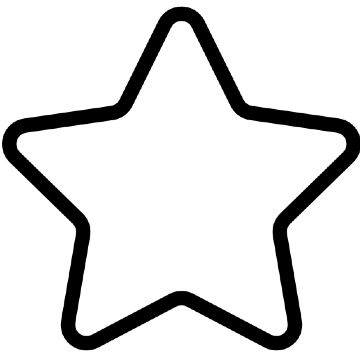
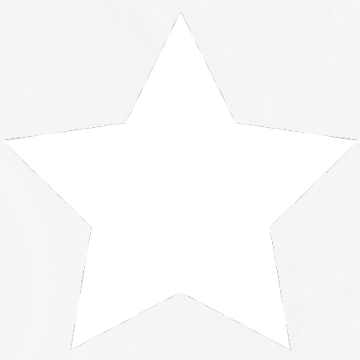
201018 작업 - 훈사
- mypage, review, user 페이지 디자인 수정

Changed region(s): [[0.0, 0.0, 1.0, 0.9778]]

diff --git a/review/css/review.css b/review/css/review.css
@@ -1,3 +1,7 @@
+html {
+  background-color: #F5F5F7;
+}
+
 @font-face {
   font-family: 'paybooc-Bold';
   src: url('https://cdn.jsdelivr.net/gh/projectnoonnu/noonfonts_20-07@1.0/paybooc-Bold.woff') format('woff');
@@ -5,17 +9,17 @@
   font-style: normal;
 }
 /* section */
-section{width: 800px; min-height: 800px;  margin: 50px auto; background-color: white;}
+section{width: 800px; min-height: 800px;  margin: 100px auto; background-color: #F5F5F7;}
 
 /* section 안에 header 제목 부분 */
-.section_header { margin: 50px; background-color: white;}
+.section_header { margin: 50px; background-color: #F5F5F7;}
 .section_header .title_sub{color: black; font-family: 'paybooc-Bold';}
 .section_header .title_main{color: black; font-size: x-large; font-family: 'paybooc-Bold';}
 
 /* 빈공간을 어둡게 채우는 창 */
 .container_review { }
 /* 흰 화면의 dialog 부분 */
-.container_review .content_review{ margin: 0 auto; background-color: white; 
+.container_review .content_review{ margin: 0 auto; background-color: #F5F5F7; 
      padding: 1rem 1.5rem;  width: 700px;  border-radius: 0.5rem; box-shadow: 4px 4px 20px #D1CFCF;} 
 /* 상단 닉네임 및 평점 부분 */
 .container_review .content_header_review{height: 50px; width:95%; position:relative;}
@@ -34,32 +38,33 @@ section{width: 800px; min-height: 800px;  margin: 50px auto; background-color: w
      border-radius: 0.25rem;  background-color: lightgray;  } 
 .container_review .close_btn_review:hover { background-color: darkgray; } 
 /* 영화제목 */
-.container_review .title{ font-family: 'Oswald', sans-serif; color: #216182; margin-top:30px; margin-bottom:50px} 
+.container_review .title{ font-family: 'Oswald', sans-serif; color: #20A2F1; margin-top:30px; margin-bottom:50px} 
 /* 한줄평 및 장문평 제목 */
-.container_review h2{margin-top:20px; font-family: 'Oswald', sans-serif; color: #216182; text-align: center; margin-bottom:20px; font-family: 'paybooc-Bold';}
+.container_review h2{margin-top:20px; font-family: 'Oswald', sans-serif; color: #20A2F1; text-align: center; margin-bottom:20px; font-family: 'paybooc-Bold';}
 
 /* form 태그 */
 .content_review form{width: 100%;margin: 0 auto;}
 
-.content_review form input[type=submit]{width: 30%; height: 30px; margin: 0px auto; margin-top: 10px; display: block; background-color:#679b9b;
-    border: none; border-radius: 10px;}
+.content_review form input[type=submit]{width: 30%; height: 30px; margin: 0px auto; margin-top: 10px; display: block; background-color:rgb(44, 44,44);
+    border: none; border-radius: 10px; color: #F5F5F7;}
 
 /* .content_review h2{text-align: center; margin-bottom:20px; } */
 
 /* 한줄평 */
 .review_short{word-break:break-all; font-family: 'Oswald', sans-serif; font-size: 20px; width:80%; margin:20px auto; 
-    margin-bottom:30px; display:block; border-style: none; text-align: center;}
+    margin-bottom:30px; display:block; border-style: none; text-align: center; background-color: #F5F5F7;}
 
 /* 장문평 */
 .review_long{word-break:break-all; font-family: 'Oswald', sans-serif; font-size: 20px; width:80%; margin:20px auto;
-    margin-bottom:30px;height:200px; overflow-y:auto; display:block; border-style: none; text-align: center;}
+    margin-bottom:30px;height:200px; overflow-y:auto; display:block; border-style: none; text-align: center; background-color: #F5F5F7;}
 #long_view_box{display:block;}
 
 /* 별점 */
+.startRadio_box { text-align: center;}
 .blind { position: absolute; overflow: hidden; margin: -1px; padding: 0; width: 1px; height: 1px; border: none; clip: rect(0, 0, 0, 0); }
 .startRadio { display: inline-block; overflow: hidden; height: 20px;} 
 .startRadio:after {content: "";  display: block; position: relative; z-index: 2; height: 20px;
-     background: url("../../common/img/star.png") repeat-x 0 0; background-size: contain; pointer-events: none; }
+     background: url("../../common/img/star1.png") repeat-x 0 0; background-size: contain; pointer-events: none; }
 .startRadio__box { position: relative; z-index: 1; float: left; width: 10px; height: 25px; cursor: pointer; }
 .startRadio__box input{opacity: 0 !important; height: 0 !important; width: 0 !important; position: absolute !important;}
 .startRadio__box input:checked + .startRadio__img {background-color: #FB9F00; }
@@ -69,7 +74,7 @@ section{width: 800px; min-height: 800px;  margin: 50px auto; background-color: w
 /* 슬라이드 이미지 */
 .slideShow{
     position: relative;
-    background-color: #0C191D;
+    background-color: black;
     height: 550px;
     width: 100%;
     overflow: hidden;

diff --git a/mypage/css/mypage_review_modal.css b/mypage/css/mypage_review_modal.css
@@ -5,13 +5,15 @@
     font-style: normal;
   }
     
-    
+  html {
+    background-color: #F5F5F7;
+ } 
     /* 빈공간을 어둡게 채우는 창 */
     .modal_container_review { position: fixed; left: 0; top: 0; width: 100%; height: 100%; background-color: rgba(0, 0, 0, 0.5);  z-index: 99; 
         opacity: 1;  visibility: hidden; transform: scale(1.0); transition: visibility 0s linear 0s, opacity 0.25s 0s, transform 0.25s; } 
 
     /* 흰 화면의 dialog 부분 */
-    .modal_container_review .modal_content_review{ position: absolute;  top: 50%;  left: 50%;  transform: translate(-50%, -50%); background-color: white; 
+    .modal_container_review .modal_content_review{ position: absolute;  top: 50%;  left: 50%;  transform: translate(-50%, -50%); background-color: #F5F5F7; 
          padding: 1rem 1.5rem; height: 600px;  border-radius: 0.5rem; display: flex; z-index: 100;} 
 
     /* content_left_review */
@@ -68,7 +70,7 @@
     /* ************** */
     /* 댓글 창 */
     /* ************** */
-    .modal_container_review .comments_container{background-color: white; 
+    .modal_container_review .comments_container{background-color: #F5F5F7; 
         width: 300px;  border-radius: 0.5rem; margin: auto; display: none; flex: auto; margin-left: 40px; }
     .modal_container_review .comments_container .comments_list{width: 100%;  height: 400px; overflow-y:auto;overflow-x: hidden; }
     .modal_container_review .comments_container .comments_register{width: 100%;  height: 140px; }
@@ -105,7 +107,7 @@
         display: none;
         z-index: 2;
         border-radius: 40px;
-        background-color: white;
+        /* background-color: #F5F5F7; */
        font-size: 28px;
        font-weight: bolder;
     }

diff --git a/user/css/user_find_account.css b/user/css/user_find_account.css
@@ -1,5 +1,7 @@
+html {
+   background-color: #F5F5F7;
+}
 section {height: 500px;}
-
 
 /* 빈공간을 어둡게 채우는 창 */
 .modal_container_find_account
@@ -8,7 +10,7 @@ section {height: 500px;}
 
    /* 흰 화면의 dialog 부분 */
    .modal_container_find_account 
-.modal_content_find_account {  position: absolute;   top: 50%;  left: 50%;  transform: translate(-50%, -50%); background-color: white; 
+.modal_content_find_account {  position: absolute;   top: 50%;  left: 50%;  transform: translate(-50%, -50%); background-color: #F5F5F7; 
         padding: 1rem 1.5rem;   width: 400px;  height: 400px;   border-radius: 0.5rem; text-align:center; overflow:hidden;z-index: 100; } 
 
    /* 끄기 버튼 */
@@ -37,8 +39,8 @@ section {height: 500px;}
    .modal_content_find_account form table td input{height:50px;}
    
    /* 로그인 버튼 */
-   .modal_content_find_account form input[type=button]{width:90%; height: 50px; background-color:#679b9b; border-style:none;
-       border-radius: 0.5rem;font-size:20px;font-weight: bold}
+   .modal_content_find_account form input[type=button]{width:90%; height: 50px; background-color:rgb(44, 44, 44); border-style:none;
+       border-radius: 0.5rem;font-size:20px;font-weight: bold; color:#F5F5F7}
 
    /* 하단 버튼 */
    .modal_content_find_account button{width:40%; height:40px; font-size:15px;margin:10px }

diff --git a/mypage/css/mypage.css b/mypage/css/mypage.css
@@ -5,9 +5,12 @@
     font-weight: normal;
     font-style: normal;
   }
+  html {
+    background-color: #F5F5F7;
+ }
 /* 왼쪽 사이드 메뉴 */
 /* 프로필 이미지 */
-.nav_left{ width: 300px; float: left; margin: 50px; background-color: white; box-shadow: 4px 4px 20px #D1CFCF; border-radius: 10px;}
+.nav_left{ width: 300px; float: left; margin-top: 100px; margin-left:50px; margin-right:50px;background-color: #F5F5F7; box-shadow: 4px 4px 20px #D1CFCF; border-radius: 10px;}
 .profile_img_box { width: 200px; height: 200px; margin: 50px auto; border-radius: 50%; overflow: hidden;}
 .nav_left img{ width: 100%; height: 100%; object-fit: cover; }
 
@@ -32,7 +35,7 @@
 .section_header .title_main{color: black; font-size: x-large; font-family: 'paybooc-Bold';}
 
 /* section */
-section{width: 800px; min-height: 800px;  margin: 50px; float: left; background-color: white;}
+section{width: 800px; min-height: 800px;  margin: 50px; float: left; background-color: #F5F5F7;}
 
 #review_total_count{display: inline-block;}
 /* footer */
@@ -47,7 +50,7 @@ a#btn_top {
     display: none;
     z-index: 2;
     border-radius: 40px;
-    background-color: white;
+    background-color: #F5F5F7;
    font-size: 28px;
    font-weight: bolder;
 }

diff --git a/mypage/css/mypage_follow_item.css b/mypage/css/mypage_follow_item.css
@@ -1,6 +1,8 @@
-
+html {
+    background-color: #F5F5F7;
+ }
 .list_item{list-style: none; margin: 10px; width: 180px; height: 200px; overflow: hidden;
-    float: left; text-align: center; background-color: white; box-shadow: 4px 4px 20px #D1CFCF; border-radius: 10px;}
+    float: left; text-align: center; background-color: #F5F5F7; box-shadow: 4px 4px 20px #D1CFCF; border-radius: 10px;}
 
 .list_item .img_box{width: 120px; height: 120px; margin: 20px auto; border-radius: 50%; overflow: hidden;}
 .list_item img{width: 100%; height: 100%; object-fit: cover;}

diff --git a/mypage/css/mypage_wishlist_item.css b/mypage/css/mypage_wishlist_item.css
@@ -1,6 +1,9 @@
 
+html {
+    background-color: #F5F5F7;
+ }
 .list_item{list-style: none; margin: 10px; width: 180px; height: 280px; overflow: hidden;
-    float: left; text-align: center; background-color: white; box-shadow: 4px 4px 20px #D1CFCF; border-radius: 10px;}
+    float: left; text-align: center; background-color: #F5F5F7; box-shadow: 4px 4px 20px #D1CFCF; border-radius: 10px;}
 
 .list_item img{width: 100%; height: 250px; }
 .list_item a{text-decoration: none;}

diff --git a/mypage/css/mypage_comment_list_item.css b/mypage/css/mypage_comment_list_item.css
@@ -1,6 +1,8 @@
-
+html {
+    background-color: #F5F5F7;
+ }
 .list_item{position: relative; margin: 30px; width: 700px; height: 150px; padding: 10px; 
-    box-shadow: 4px 4px 20px #D1CFCF; border-radius: 10px;background-color: white;}
+    box-shadow: 4px 4px 20px #D1CFCF; border-radius: 10px;background-color: #F5F5F7;}
 .list_item>div{height: 100%;}
 .list_item li{list-style: none;}
 .list_item .left{display: inline-block; width: 100px;}

diff --git a/mypage/css/mypage_edit_myinfo.css b/mypage/css/mypage_edit_myinfo.css
@@ -1,3 +1,7 @@
+html {
+    background-color: #F5F5F7;
+ }
+
 .section_container{margin: 50px; box-shadow: 4px 4px 20px #D1CFCF; border-radius: 10px;}
 .section_container form tr{height: 70px;  border-bottom:solid 1px black;}
 /* .section_container form tr:hover{background-color: blanchedalmond;} */

diff --git a/common/css/common.css b/common/css/common.css
@@ -5,7 +5,7 @@
 * {padding: 0; margin: 0;}
 
 /* 페이지 기본 글꼴과 크기 설정 */
-body {font-family: "나눔고딕"; font-size: 14px; position: relative;}
+body {font-family: 'Spoqa Han Sans'; font-size: 14px; position: relative;}
 img { border: 0;}
 ul { list-style-type: none; }
 

diff --git a/mypage/mypage_modify_modal.php b/mypage/mypage_modify_modal.php
@@ -7,7 +7,7 @@
         opacity: 1;  visibility: hidden; transform: scale(1.0); transition: visibility 0s linear 0s, opacity 0.25s 0s, transform 0.25s; } 
 
     /* 흰 화면의 dialog 부분 */
-    .modal_container_mypage .modal_content_mypage {  position: absolute;   top: 50%;  left: 50%;  transform: translate(-50%, -50%); background-color: white; 
+    .modal_container_mypage .modal_content_mypage {  position: absolute;   top: 50%;  left: 50%;  transform: translate(-50%, -50%); background-color: #F5F5F7; 
          padding: 1rem 1.5rem;   width: 400px;  height: 450px;   border-radius: 0.5rem; text-align:center; overflow:hidden;} 
 
     /* 끄기 버튼 */
@@ -45,9 +45,18 @@
     .modal_content_mypage #modify_form table tr:nth-child(7) img{width: 45px; height: 45px; margin-left:5px; margin-right:5px}
     
     /* 수정하기 버튼 */
-    .modal_content_mypage #modify_form input[type=button]{width:90%; height: 40px; background-color:#679b9b; border-style:none;
-        border-radius: 0.5rem;font-size:20px;font-weight: bold}
-
+    .modal_content_mypage #modify_form input[type=button]{width:90%; height: 40px; background-color:rgb(44, 44, 44); border-style:none;
+        border-radius: 0.5rem;font-size:20px;font-weight: bold; color:#F5F5F7;}
+        .logo_image_box{width:110px; height:45px;overflow: hidden; display:inline-block;}
+        .logo_image_box img{width: 100%; height: 100%; object-fit: cover;}
+    input[type=button]{width: 90%;
+    height: 40px;
+    background-color: rgb(44, 44, 44);
+    border-style: none;
+    border-radius: 0.5rem;
+    font-size: 20px;
+    font-weight: bold;
+    color: #F5F5F7;}
 </style>
 
 <!-- ****************** -->
@@ -60,9 +69,9 @@
         <!-- 상단 로고 -->
         <div class="modal_content_mypage_header">
             <!-- 로고 -->
-            <!-- <div class="small_img_box">
-                <img src="./img/profile_image< ?=$i?>.png" alt="프로필 이미지">
-            </div>  -->
+            <div class="logo_image_box">
+                <img src="http://<?=$_SERVER['HTTP_HOST']?>/wootcha/user/img/logo.png" alt="로고">
+            </div> 
         </div>
     
         <!-- ***************** -->
@@ -116,9 +125,9 @@
         </table>
         <input type="button" value="수정" onclick="allCheckModify()">
         </form>
-        <hr width="99%" color="#e2e2e2" noshade/><!-- 구분선 -->
         <!-- <button> api 가입하기 </button> -->
-        <a href="#" onclick="withdrawal()">회원탈퇴</a>
+        <input type="button" onclick="withdrawal()" value="회원 탈퇴">
+        <!-- <a href="#" onclick="withdrawal()">회원탈퇴</a> -->
     </div>
 </div>
 

diff --git a/user/user_login_modal.php b/user/user_login_modal.php
@@ -12,7 +12,7 @@
 
     /* 흰 화면의 dialog 부분 */
     .modal_container_login 
- .modal_content_login {  position: absolute;   top: 50%;  left: 50%;  transform: translate(-50%, -50%); background-color: white; 
+ .modal_content_login {  position: absolute;   top: 50%;  left: 50%;  transform: translate(-50%, -50%); background-color: #F5F5F7; 
          padding: 1rem 1.5rem;   width: 400px;  height: 400px;   border-radius: 0.5rem; text-align:center; overflow:hidden;} 
 
     /* 끄기 버튼 */
@@ -41,12 +41,15 @@
     .modal_content_login form table td input{height:50px;}
     
     /* 로그인 버튼 */
-    .modal_content_login form input[type=button]{width:300px; height: 50px; background-color:#0C191D; border-style:none;
-        border-radius: 0.5rem;font-size:20px;font-weight: bold;color:white;}
+    .modal_content_login form input[type=button]{width:300px; height: 50px; background-color:rgb(44, 44, 44); border-style:none;
+        border-radius: 0.5rem;font-size:20px;font-weight: bold;color:#F5F5F7;}
 
     /* 하단 버튼 */
-    .modal_content_login button{width:138px; height:40px; font-size:15px;margin:10px; background-color:#0C191D; border-style:none;
-        border-radius: 0.5rem;color:white;}
+    .modal_content_login button{width:138px; height:40px; font-size:15px;margin:10px; background-color:rgb(44, 44, 44); border-style:none;
+        border-radius: 0.5rem;color:#F5F5F7;}
+
+        .logo_image_box{width:110px; height:45px;overflow: hidden; display:inline-block;}
+        .logo_image_box img{width: 100%; height: 100%; object-fit: cover;}
 </style>
 <script src="http://<?=$_SERVER['HTTP_HOST']?>/wootcha/user/js/login.js?after"></script>
 <!-- ****************** -->
@@ -61,9 +64,9 @@
         <!-- 상단 로고 -->
         <div class="login_modal_content_header">
             <!-- 로고 -->
-            <!-- <div class="small_img_box">
-                <img src="./img/profile_image< ?=$i?>.png" alt="프로필 이미지">
-            </div>  -->
+            <div class="logo_image_box">
+                <img src="http://<?=$_SERVER['HTTP_HOST']?>/wootcha/user/img/logo.png" alt="로고">
+            </div> 
         </div>
         <hr width="99%" color="#e2e2e2" noshade/>
         

diff --git a/user/user_signup_modal.php b/user/user_signup_modal.php
@@ -9,7 +9,7 @@
         opacity: 1;  visibility: hidden; transform: scale(1.0); transition: visibility 0s linear 0s, opacity 0.25s 0s, transform 0.25s; } 
 
     /* 흰 화면의 dialog 부분 */
-    .modal_container .modal_content {  position: absolute;  top: 50%;  left: 50%;  transform: translate(-50%, -50%); background-color: white; 
+    .modal_container .modal_content {  position: absolute;  top: 50%;  left: 50%;  transform: translate(-50%, -50%); background-color: #F5F5F7; 
          padding: 1rem 1.5rem;   width: 400px;  border-radius: 0.5rem; text-align:center; overflow:hidden; z-index: 211;} 
 
     /* 끄기 버튼 */
@@ -38,7 +38,7 @@
     .modal_content form table tr:nth-child(1) td{position:relative;}
     .modal_content form table tr:nth-child(1) td span{position:absolute; right:12%; top: 30%; 
         transform: translateY(-50%); width:60px; height:30px; overflow:hidden; }
-    .modal_content form table tr:nth-child(1) td span #email_check_button{margin: 0; font-size:10px; color:white; height:25px; background-color:#0C191D; border-radius: 0.5rem;}
+    .modal_content form table tr:nth-child(1) td span #email_check_button{margin: 0; font-size:10px; color:#F5F5F7; height:25px; background-color:rgb(44, 44, 44);border-radius: 0.5rem;}
     /* 생년월일 input */
     .modal_content form table tr:nth-child(11) td{position:relative;}
     .modal_content form table tr:nth-child(11) label{position:absolute; top: 50%;  left: 50%;  transform: translate(-50%, -50%); color:gray;}
@@ -51,8 +51,8 @@
     /* user_img */
     .modal_content form table tr:nth-child(17) img{width: 45px; height: 45px; margin-left:5px; margin-right:5px}
     /* 회원가입 버튼 */
-    .modal_content form input[type=button]{width:90%; height: 40px; background-color:#0C191D; border-style:none;
-        border-radius: 0.5rem;font-size:20px;font-weight: bold; color:white;}
+    .modal_content form input[type=button]{width:90%; height: 40px; background-color:rgb(44, 44, 44);border-style:none;
+        border-radius: 0.5rem;font-size:20px;font-weight: bold; color:#F5F5F7;}
         /* 하단 버튼 */
     .modal_content button{width:40%; height:40px; font-size:15px;margin:10px }
     /* 카카오 */
